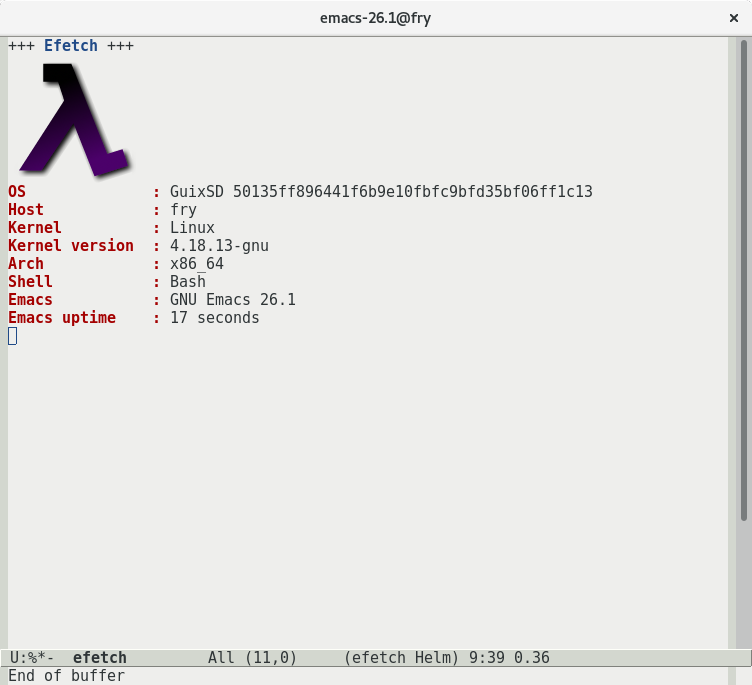
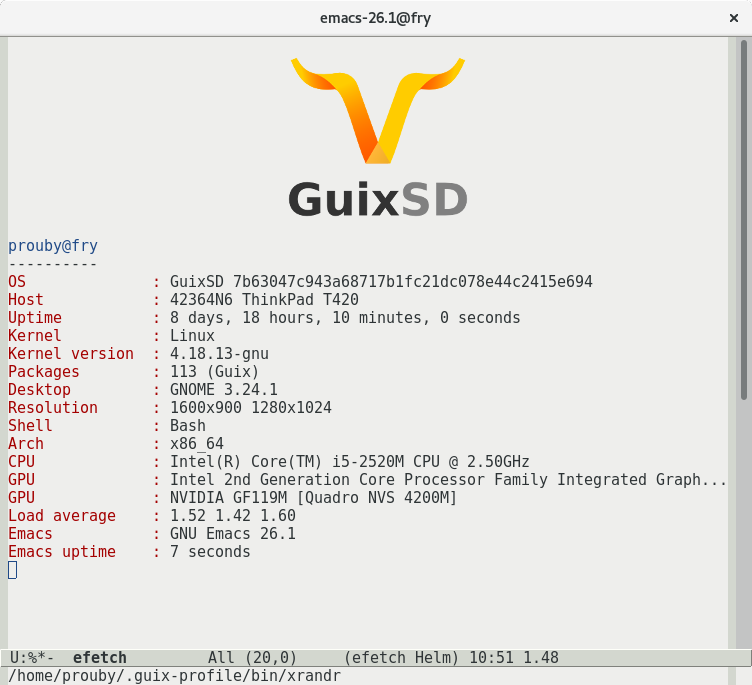
blog: Update blog.
* blog/create_emacs_mode.org: Delete file.
* blog/efetch_01.png: Update.
* blog/main.css: New file.
* blog/presentation_efetch.org: New file.

diff --git a/blog/main.css b/blog/main.css
@@ -1,0 +1,84 @@
+/* Font definition */
+@font-face {
+    font-family: ELRaleway;
+    src: url(../fonts/raleway/Raleway-ExtraLight.ttf);
+}
+
+@font-face {
+    font-family: ELRaleway;
+    src: url(../fonts/raleway/Raleway-Light.ttf);
+    font-weight: bold;
+}
+
+@font-face {
+    font-family: LRaleway;
+    src: url(../fonts/raleway/Raleway-Light.ttf);
+}
+
+@font-face {
+    font-family: LRaleway;
+    src: url(../fonts/raleway/Raleway-Medium.ttf);
+    font-weight: bold;
+}
+
+@font-face {
+    font-family: cnr;
+    src: url('../fonts/code_new_roman/Code New Roman.otf');
+}
+
+@font-face {
+    font-family: cnr;
+    src: url('../fonts/code_new_roman/Code New Roman b.otf');
+    font-weight: bold;
+}
+
+html {
+    color: #222;
+    background: #f5f5f5;
+    font-family: "LRaleway";
+    font-size: 1.15em;
+}
+
+body {
+    background-color: #f5f5f5;
+    vertical-align: middle;
+    margin-left: 15%;
+    margin-right: 15%;
+}
+
+iframe {
+    box-shadow: 5px 5px 10px #222;
+    width: 90%;
+    min-height: 400px;
+}
+
+img {
+    margin: 20px;
+    box-shadow: 8px 8px 8px #666;
+    max-width: 80%;
+    background: #fff;
+}
+
+h2 {
+    padding-left: 10px;
+}
+
+h3 {
+    padding-left: 15px;
+    padding-right: 15px;
+}
+
+p {
+    padding-left: 15px;
+    padding-right: 15px;
+}
+
+a {
+    color: #4b0069;
+    text-decoration:none;
+    font-weight: bold;
+}
+
+a:hover {
+    color: #666;
+}
